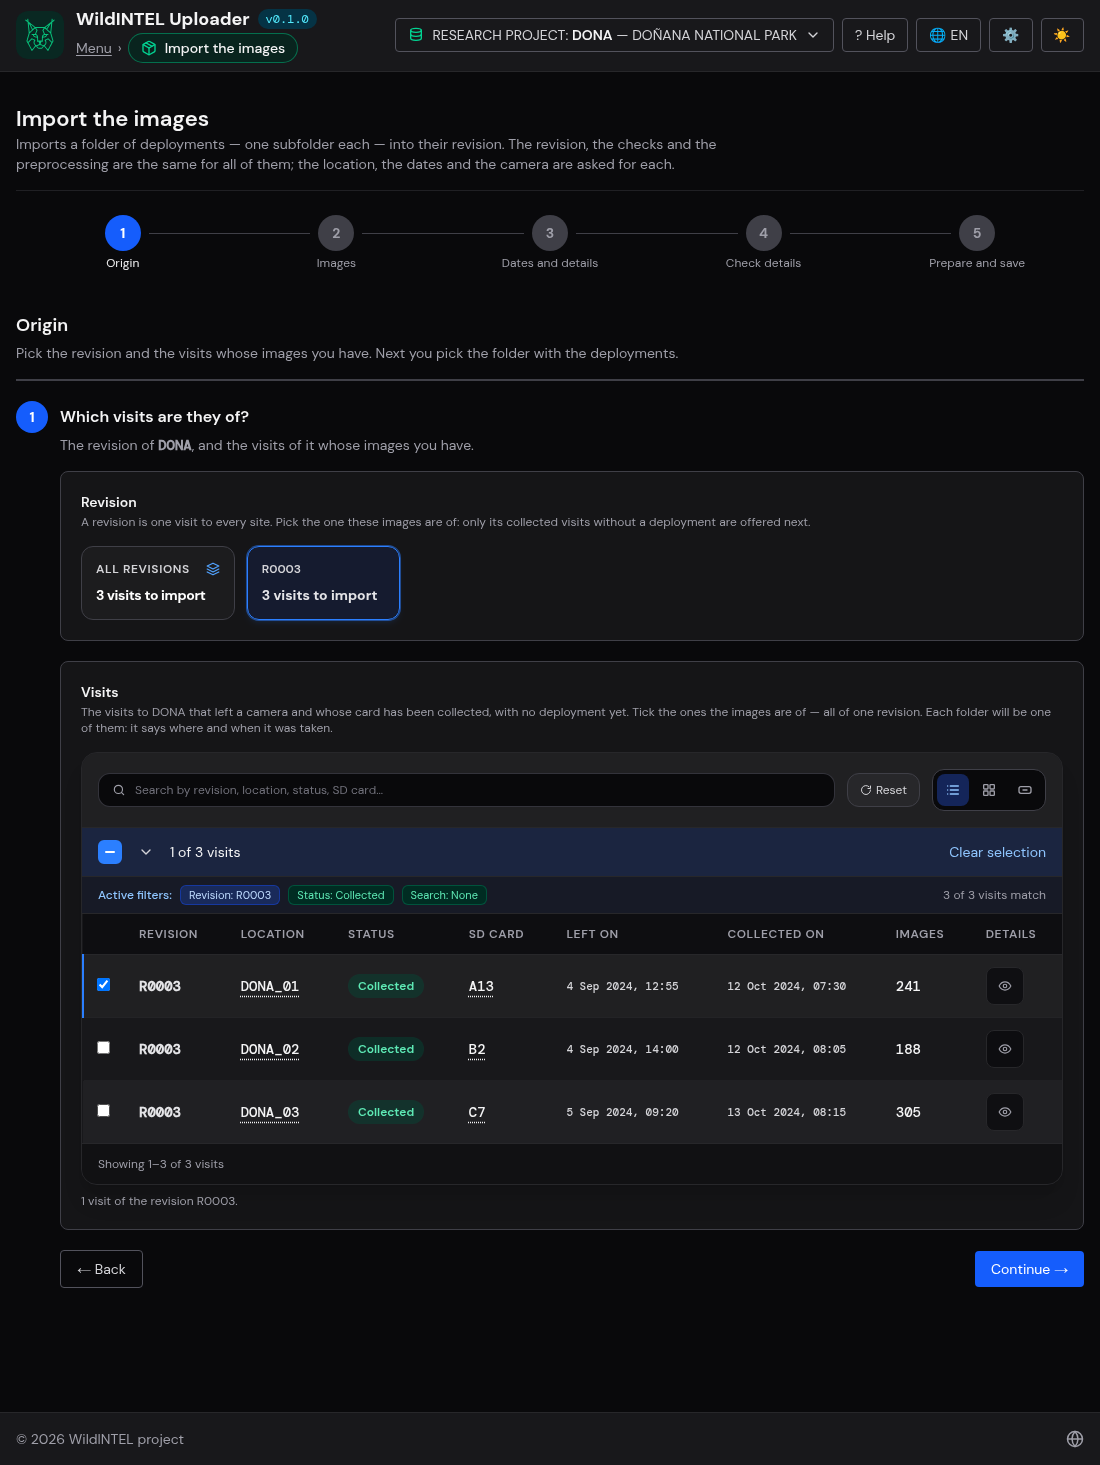
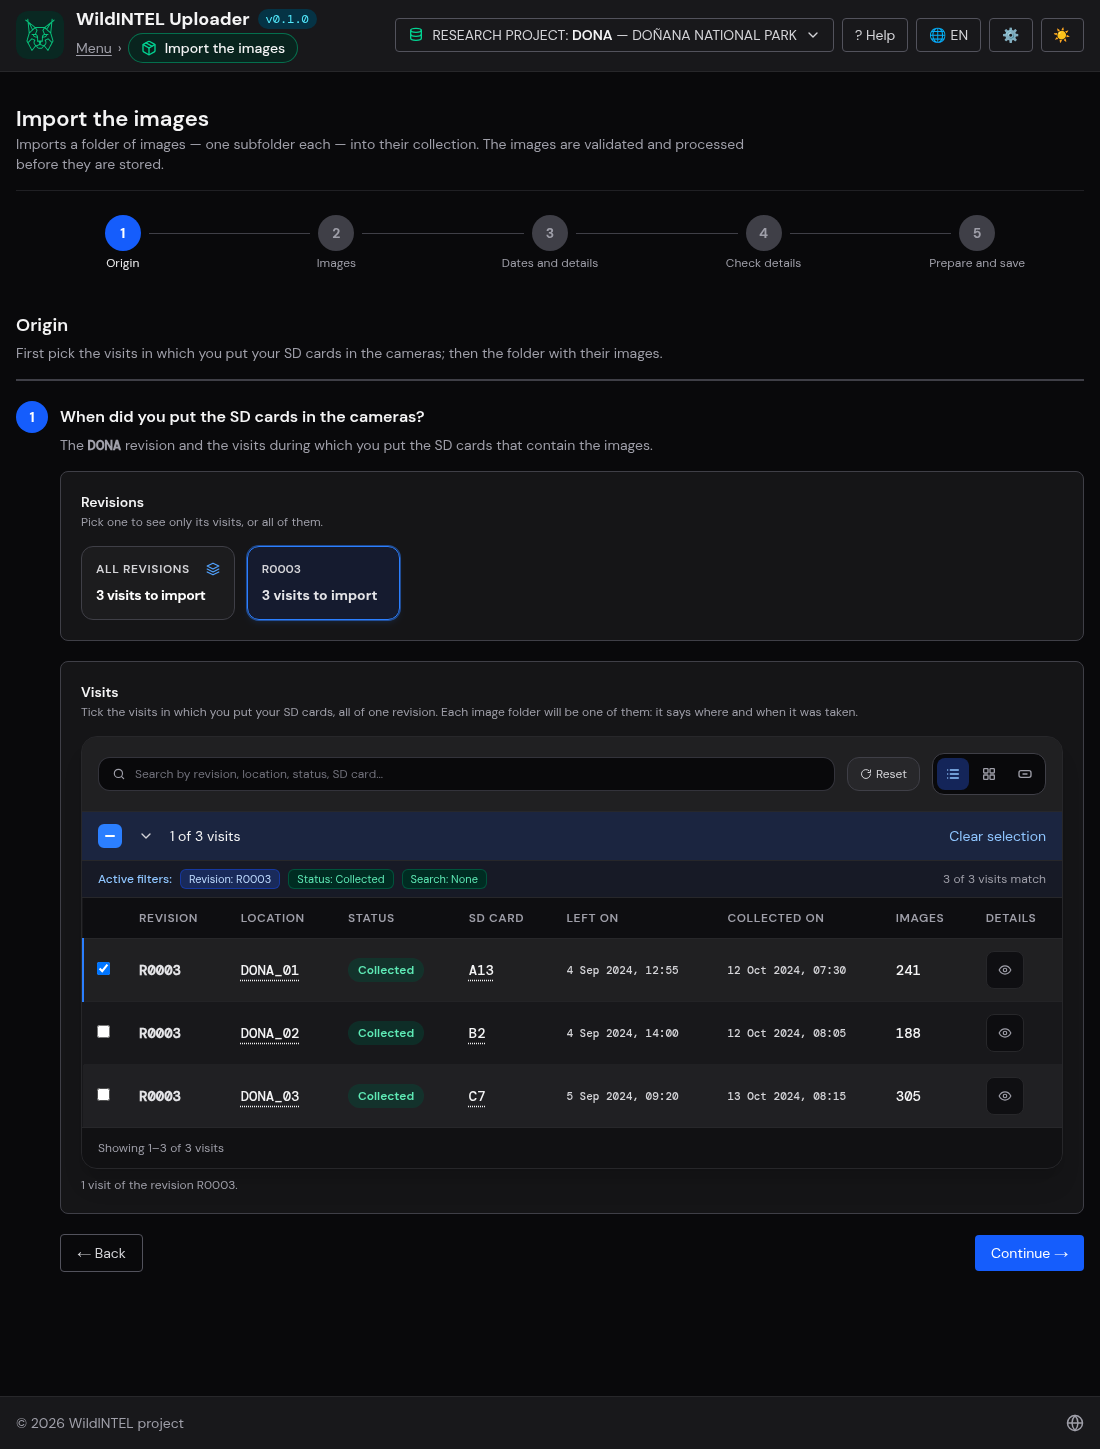
Import the images: a test for the timeline and the collection of the summary and the result, the screenshot of the origin step and the capture of the saved deployment

diff --git a/frontend/src/pages/ImportDeploymentPage.test.tsx b/frontend/src/pages/ImportDeploymentPage.test.tsx
@@ -2083,6 +2083,34 @@ describe('ImportDeploymentPage', () => {
       expect(screen.getByRole('checkbox', { name: 'Add metadata' })).not.toBeChecked()
     })
 
+    it('shows the period as a timeline of the two visits and the collection with no path — before and after saving — and where the images come from', async () => {
+      mockedApi.consolidate.mockImplementation(async (_src, _dir, _dep, onEvent) => {
+        onEvent({ type: 'done', dest_dir: `${COLLECTIONS_DIR}/R0001-DONA_01`, processed: 12, skipped: 0 })
+      })
+      await goToPostvalidation()
+      await advanceToPreprocessing()
+      await runPreprocessingAndContinue()
+
+      const summary = await screen.findByRole('region', { name: 'What is going to be saved' })
+      const period = within(summary).getByRole('list', { name: 'Period of the deployment' })
+      const [put, collected] = within(period).getAllByRole('listitem')
+      expect(put).toHaveTextContent('SD card put in the camera')
+      expect(put).toHaveTextContent('Visit R0001 · Installation')
+      expect(collected).toHaveTextContent('SD card collected')
+      expect(collected).toHaveTextContent('Visit R0002 · Revision')
+      expect(summary).toHaveTextContent('CollectionR0001')
+      expect(summary).not.toHaveTextContent(COLLECTIONS_DIR)   // the path is not said: the buttons of the result open or copy it
+      expect(within(summary).queryByText('Taken at')).not.toBeInTheDocument()
+
+      await userEvent.click(screen.getByRole('button', { name: 'Save to my collection' }))
+      expect(await screen.findByText(/Deployment saved to collection/)).toHaveTextContent('Deployment saved to collection R0001')
+      await userEvent.click(screen.getByRole('button', { name: 'What was saved' }))
+      const saved = screen.getByRole('region', { name: 'What was saved' })
+      expect(saved).toHaveTextContent('Obtained from the SD card A13 that was put in the camera in the field during the visit R0001 at DONA_01')
+      expect(saved).toHaveTextContent('collected from the field during the visit R0002 at DONA_01')
+      expect(saved).not.toHaveTextContent(COLLECTIONS_DIR)
+    })
+
     it('offers to open the created folder in the file explorer once imported', async () => {
       mockedApi.openFolder.mockResolvedValue({ opened: `${COLLECTIONS_DIR}/R0001-DONA_01` })
       mockedApi.consolidate.mockImplementation(async (_src, _dir, _dep, onEvent) => {

diff --git a/tools/screenshots/capture.py b/tools/screenshots/capture.py
@@ -366,7 +366,7 @@ def step_import(page: Page) -> None:
     expect(button(page, "Continue to save")).to_be_visible()
     button(page, "Continue to save").click()
     button(page, "Save to my collection").click()
-    expect(page.get_by_text("Deployment saved", exact=True)).to_be_visible()
+    expect(page.get_by_text(re.compile(r"^Deployment saved to collection"))).to_be_visible()
     save(page, "step-import")
 
 
